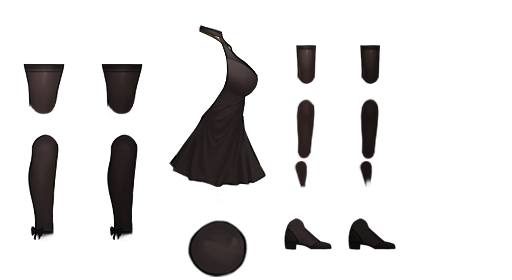
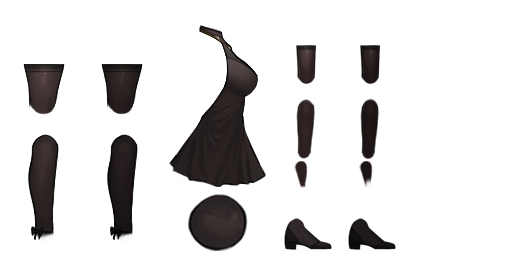
Squashed commit of the following:
commit 45e606302fccd927e1aec9a91de7b2a89fa4550e
Author: Touman Lin <72175577+ToumanLin@users.noreply.github.com>
Date:   Mon Dec 1 00:05:06 2025 -0800

    修复人体mask错误

commit 4cc34a3c7c7d4bd40ecca503a8b101328fc3dc68
Author: Touman Lin <72175577+ToumanLin@users.noreply.github.com>
Date:   Mon Dec 1 00:04:59 2025 -0800

    更新pressurestablizer合成配方

commit 4eaed98e41626c015977b464e0a9abacf9692107
Author: Touman Lin <72175577+ToumanLin@users.noreply.github.com>
Date:   Sat Nov 1 23:10:26 2025 -0700

    fix path忘写后缀

commit f373c334565e6964dce59a24221d1e005cb2f30c
Author: Touman Lin <72175577+ToumanLin@users.noreply.github.com>
Date:   Sat Nov 1 05:06:14 2025 -0700

    把2.1删除的头部回归选项中

commit 9eaea30773073f39addea091ebe46490b3fca7d8
Author: Touman Lin <72175577+ToumanLin@users.noreply.github.com>
Date:   Sat Nov 1 05:06:05 2025 -0700

    修复VIP2腰部贴图错位

commit e159300631eb63270dc141354535c340f201cf98
Author: Touman Lin <72175577+ToumanLin@users.noreply.github.com>
Date:   Sat Nov 1 04:59:23 2025 -0700

    修复助手服腰部未显示的问题

commit 6c9f85fc65dfe2750d92a1227e00454cb133aff8
Author: Touman Lin <72175577+ToumanLin@users.noreply.github.com>
Date:   Sat Nov 1 04:44:57 2025 -0700

    Head and Hair

commit 0690155abdc37f59ad38e16a6aa6ad8c509df68a
Author: Touman Lin <72175577+ToumanLin@users.noreply.github.com>
Date:   Sat Nov 1 04:44:47 2025 -0700

    修复Diving Suit悬浮

commit 99a11b536433730dec9f145bfca618edf37abfaf
Author: Touman Lin <72175577+ToumanLin@users.noreply.github.com>
[…]

Changed region(s): [[0.3438, 0.6857, 0.5, 1.0]]

diff --git a/README.md b/README.md
@@ -42,9 +42,9 @@ label all vanilla uniforms as wf_withboots
       <sprite name="[place holder] Right Shoe" texture="[place holder]_2.png" limb="RightFoot" hidelimb="true" inherittexturescale="true" sourcerect="272,208,64,64" origin="0.48, 0.4125" sound="footstep_metal_heels" />
   3. 增加heels animation
       <StatusEffect type="OnWearing" target="Character" setvalue="true" >
-        <TriggerAnimation Type="Walk" FileName="HumanWalkHeels" priority="1" ExpectedSpecies="Human" />
-        <TriggerAnimation Type="Run" FileName="HumanRunHeels" priority="1" ExpectedSpecies="Human" />
-        <TriggerAnimation Type="Crouch" FileName="HumanCrouchHeels" priority="1" ExpectedSpecies="Human" />
+        <TriggerAnimation Type="Walk" path="%ModDir%/Content/Characters/Human/Animations/HumanWalkHeels.xml" priority="0" ExpectedSpecies="Human" />
+        <TriggerAnimation Type="Run" path="%ModDir%/Content/Characters/Human/Animations/HumanRunHeels.xml" priority="0" ExpectedSpecies="Human" />
+        <TriggerAnimation Type="Crouch" path="%ModDir%/Content/Characters/Human/Animations/HumanCrouchHeels.xml" priority="0" ExpectedSpecies="Human" />
       </StatusEffect>
   4. 别忘了本地化, description
 
